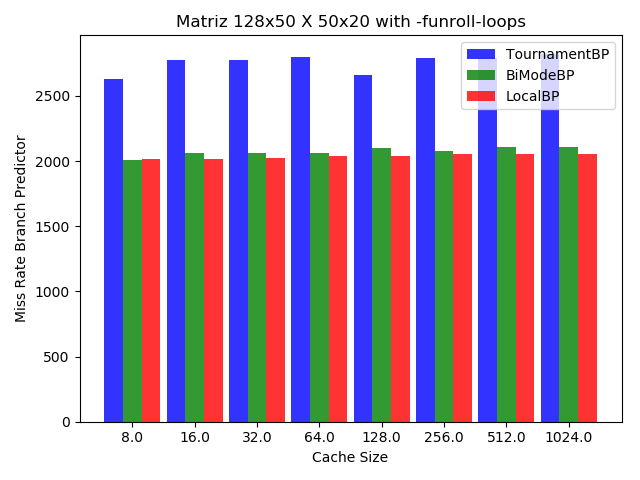
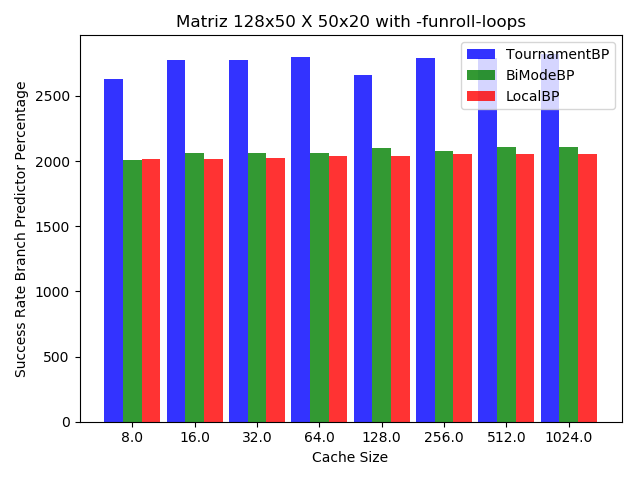
dont show image

Changed region(s): [[0.0, 0.1562, 0.0625, 0.7812]]

diff --git a/gem5_analyser.py b/gem5_analyser.py
@@ -84,7 +84,6 @@ def plotIPC(dataset, BP, LOOP_UNROLLING, I, J, K, file):
     ax.grid()
 
     fig.savefig(file)
-    plt.show()
 
 def plotBranchMiss(dataset, LOOP_UNROLLING, I, J, K, file):
     # data to plot
@@ -125,14 +124,13 @@ def plotBranchMiss(dataset, LOOP_UNROLLING, I, J, K, file):
 
     loop = ' with -funroll-loops' if LOOP_UNROLLING else ' no optimization'
     plt.xlabel('Cache Size')
-    plt.ylabel('Miss Rate Branch Predictor Percentage')
+    plt.ylabel('Success Rate Branch Predictor Percentage')
     plt.title('Matriz '+str(I)+'x'+str(J)+' X '+str(J)+'x'+str(K)+ loop)
     plt.xticks(index + bar_width, cachesizes)
     plt.legend()
     
     plt.tight_layout()
     plt.savefig(file)
-    plt.show()
 
 def main():
     dirlist = getFolders(rootdir)
